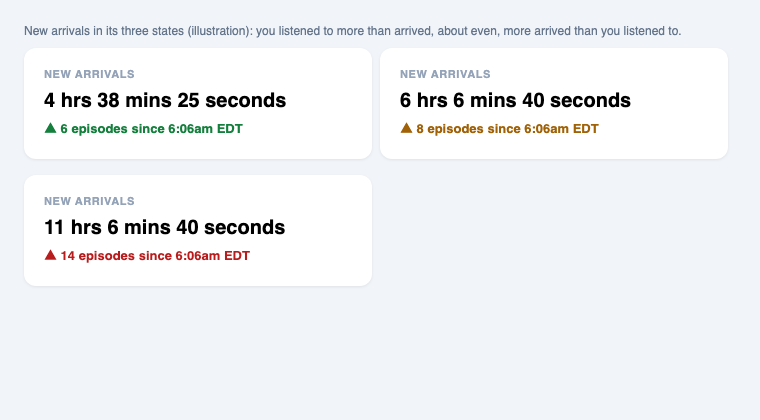
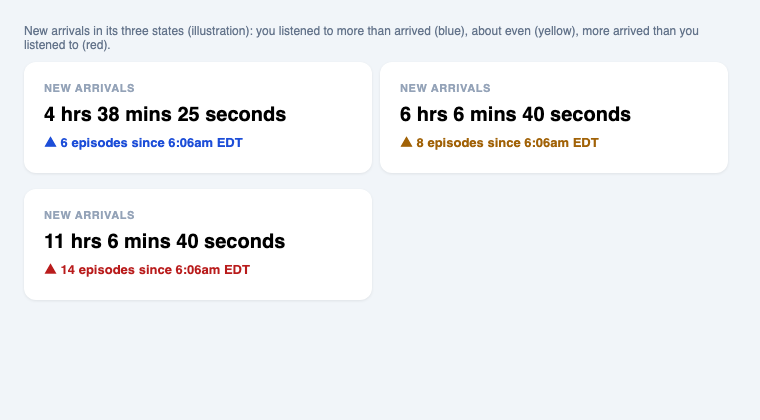
Flow web report: New arrivals is blue when listening outpaces arrivals

diff --git a/flow.py b/flow.py
@@ -611,7 +611,7 @@ def since_label(snap, tz=None):
 
 
 def arrivals_tone(arrived, listened):
-    """Green when you listened to more than arrived, yellow within 10% of it,
+    """Blue when you listened to more than arrived, yellow within 10% of it,
     red when more arrived than you listened to."""
     if arrived > listened * 1.1:
         return "worse"
@@ -620,9 +620,14 @@ def arrivals_tone(arrived, listened):
     return "same"
 
 
+ARRIVAL_COLORS = {"better": "#1d4ed8", "same": QUEUE_TONES["same"][1], "worse": QUEUE_TONES["worse"][1]}
+
+
 def arrivals_line(count, arrived_seconds, listened_seconds, since):
+    """Blue when you listened to more than arrived (arrivals are not 'good',
+    so no green), yellow when about even, red when more arrived."""
     tone = arrivals_tone(arrived_seconds, listened_seconds)
-    _, fg, _ = QUEUE_TONES[tone]
+    fg = ARRIVAL_COLORS[tone]
     noun = f"{count} episode" + ("" if count == 1 else "s")
     return f'<span style="color:{fg};font-weight:600;">\u25b2 {html.escape(noun)} {html.escape(since)}</span>'
 

diff --git a/tests/test_flow.py b/tests/test_flow.py
@@ -358,9 +358,9 @@ class StoryTests(unittest.TestCase):
         c = snap("2026-10-16T13:00", queue_count=100, played_count=1)
         self.assertEqual(flow.arrivals_count(b, c), 0)
 
-    def test_arrivals_line_is_green_yellow_or_red(self):
+    def test_arrivals_line_is_blue_yellow_or_red(self):
         since = "since 9:00am EDT"
-        self.assertIn("#15803d", flow.arrivals_line(2, 3000, 10000, since))   # listened more than arrived
+        self.assertIn("#1d4ed8", flow.arrivals_line(2, 3000, 10000, since))   # listened more than arrived: blue
         self.assertIn("#a16207", flow.arrivals_line(5, 10200, 10000, since))  # about even
         red = flow.arrivals_line(9, 20000, 10000, since)
         self.assertIn("#b91c1c", red)
